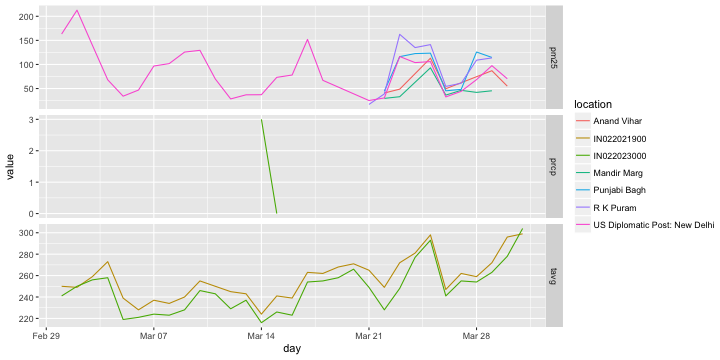
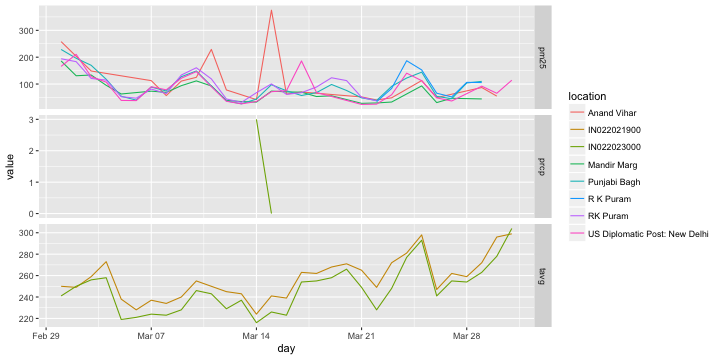
update rnoaa ropenaq vignette, bump dev version

diff --git a/inst/vign/rnoaa_ropenaq.md b/inst/vign/rnoaa_ropenaq.md
@@ -18,18 +18,10 @@ First, we need to know how many measures are available for Delhi for March 2016.
 ```r
 library("ropenaq")
 
-res <- aq_measurements(
-  city = "Delhi", parameter = "pm25",
-  date_from = "2016-03-01", date_to = "2016-03-31", limit = 1)
-countMeasures <- attr(res, "meta")$found
-measurementsDelhi <- NULL
-for (page in 1:ceiling(countMeasures/1000)){
-  measurementsDelhi <- rbind(
-    measurementsDelhi,
-    aq_measurements(city = "Delhi", parameter = "pm25",
-                    date_from = "2016-03-01", date_to = "2016-03-31",
-                    limit = 1000, page = page))
-}
+measurementsDelhi <- aq_measurements(city = "Delhi", parameter = "pm25",
+                                     date_from = "2016-03-01", 
+                                     date_to = "2016-03-31")
+
 save(measurementsDelhi, file = "data/measurementsDelhi.RData")
 ```
 
@@ -44,14 +36,14 @@ measurementsDelhi %>% head() %>% knitr::kable()
 
 
 
-|location                      |parameter | value|unit  |country |city  |dateUTC             |dateLocal           | latitude| longitude|cityURL |locationURL                     |
-|:-----------------------------|:---------|-----:|:-----|:-------|:-----|:-------------------|:-------------------|--------:|---------:|:-------|:-------------------------------|
-|US Diplomatic Post: New Delhi |pm25      |   127|µg/m³ |IN      |Delhi |2016-03-30 23:30:00 |2016-03-30 23:30:00 |  28.5981|  77.18907|Delhi   |US+Diplomatic+Post%3A+New+Delhi |
-|US Diplomatic Post: New Delhi |pm25      |   120|µg/m³ |IN      |Delhi |2016-03-30 22:30:00 |2016-03-30 22:30:00 |  28.5981|  77.18907|Delhi   |US+Diplomatic+Post%3A+New+Delhi |
-|US Diplomatic Post: New Delhi |pm25      |   111|µg/m³ |IN      |Delhi |2016-03-30 21:30:00 |2016-03-30 21:30:00 |  28.5981|  77.18907|Delhi   |US+Diplomatic+Post%3A+New+Delhi |
-|US Diplomatic Post: New Delhi |pm25      |   116|µg/m³ |IN      |Delhi |2016-03-30 20:30:00 |2016-03-30 20:30:00 |  28.5981|  77.18907|Delhi   |US+Diplomatic+Post%3A+New+Delhi |
-|US Diplomatic Post: New Delhi |pm25      |   111|µg/m³ |IN      |Delhi |2016-03-30 19:30:00 |2016-03-30 19:30:00 |  28.5981|  77.18907|Delhi   |US+Diplomatic+Post%3A+New+Delhi |
-|US Diplomatic Post: New Delhi |pm25      |   101|µg/m³ |IN      |Delhi |2016-03-30 18:30:00 |2016-03-30 18:30:00 |  28.5981|  77.18907|Delhi   |US+Diplomatic+Post%3A+New+Delhi |
+|location                      |parameter | value|unit  |country |city  | latitude| longitude|dateUTC             |dateLocal           |cityURL |locationURL                     |
+|:-----------------------------|:---------|-----:|:-----|:-------|:-----|--------:|---------:|:-------------------|:-------------------|:-------|:-------------------------------|
+|US Diplomatic Post: New Delhi |pm25      |   127|µg/m³ |IN      |Delhi |  28.5981|  77.18907|2016-03-30 23:30:00 |2016-03-31 05:00:00 |Delhi   |US+Diplomatic+Post%3A+New+Delhi |
+|US Diplomatic Post: New Delhi |pm25      |   120|µg/m³ |IN      |Delhi |  28.5981|  77.18907|2016-03-30 22:30:00 |2016-03-31 04:00:00 |Delhi   |US+Diplomatic+Post%3A+New+Delhi |
+|US Diplomatic Post: New Delhi |pm25      |   111|µg/m³ |IN      |Delhi |  28.5981|  77.18907|2016-03-30 21:30:00 |2016-03-31 03:00:00 |Delhi   |US+Diplomatic+Post%3A+New+Delhi |
+|US Diplomatic Post: New Delhi |pm25      |   116|µg/m³ |IN      |Delhi |  28.5981|  77.18907|2016-03-30 20:30:00 |2016-03-31 02:00:00 |Delhi   |US+Diplomatic+Post%3A+New+Delhi |
+|US Diplomatic Post: New Delhi |pm25      |   111|µg/m³ |IN      |Delhi |  28.5981|  77.18907|2016-03-30 19:30:00 |2016-03-31 01:00:00 |Delhi   |US+Diplomatic+Post%3A+New+Delhi |
+|US Diplomatic Post: New Delhi |pm25      |   101|µg/m³ |IN      |Delhi |  28.5981|  77.18907|2016-03-30 18:30:00 |2016-03-31 00:00:00 |Delhi   |US+Diplomatic+Post%3A+New+Delhi |
 
 ```r
 measurementsDelhi <- filter(measurementsDelhi, value > 0)
@@ -76,14 +68,14 @@ measurementsDelhi %>% head() %>% knitr::kable()
 
 
 
-|location    |day        |     value| longitude| latitude|
-|:-----------|:----------|---------:|---------:|--------:|
-|Anand Vihar |2016-03-22 |  40.71429|   77.3152|  28.6508|
-|Anand Vihar |2016-03-23 |  48.70000|   77.3152|  28.6508|
-|Anand Vihar |2016-03-25 | 113.00000|   77.3152|  28.6508|
-|Anand Vihar |2016-03-26 |  49.60000|   77.3152|  28.6508|
-|Anand Vihar |2016-03-29 |  87.00000|   77.3152|  28.6508|
-|Anand Vihar |2016-03-30 |  55.00000|   77.3152|  28.6508|
+|location    |day        |    value| longitude| latitude|
+|:-----------|:----------|--------:|---------:|--------:|
+|Anand Vihar |2016-03-01 | 258.0000|   77.3152|  28.6508|
+|Anand Vihar |2016-03-03 | 148.6000|   77.3152|  28.6508|
+|Anand Vihar |2016-03-07 | 112.6667|   77.3152|  28.6508|
+|Anand Vihar |2016-03-08 |  57.0000|   77.3152|  28.6508|
+|Anand Vihar |2016-03-09 | 111.0000|   77.3152|  28.6508|
+|Anand Vihar |2016-03-10 | 125.0000|   77.3152|  28.6508|
 
 Air quality and weather are correlated, so one could be interested in getting a time series of say temperature for the same location. The OpenAQ platform itself does not provide weather data but nearly all stations have geographical coordinates. Our goal here will be to use rnoaa to complement this table with precipitation and temperature.
 
@@ -168,7 +160,7 @@ all_monitors_clean %>% head() %>% knitr::kable()
 |IN022021900 |2016-03-02 |  249|   NA|  152|   NA|
 |IN022021900 |2016-03-03 |  259|   NA|  157|   NA|
 |IN022021900 |2016-03-04 |  273|   NA|  176|   NA|
-|IN022021900 |2016-03-05 |  239|  341|   NA|   NA|
+|IN022021900 |2016-03-05 |  238|  341|   NA|   NA|
 |IN022021900 |2016-03-06 |  228|  301|  155|   NA|
 
 Here we notice some values are not available. Therefore, we might need to go back to weather stations searching with, for instance, a larger radius. In this case let's say we're ok with the result of the search.
@@ -185,14 +177,14 @@ measurementsDelhi %>% head() %>% knitr::kable()
 
 
 
-|location    |day        |     value| longitude| latitude| tavg| tmax| tmin| prcp|
-|:-----------|:----------|---------:|---------:|--------:|----:|----:|----:|----:|
-|Anand Vihar |2016-03-22 |  40.71429|   77.3152|  28.6508|   NA|   NA|   NA|   NA|
-|Anand Vihar |2016-03-23 |  48.70000|   77.3152|  28.6508|   NA|   NA|   NA|   NA|
-|Anand Vihar |2016-03-25 | 113.00000|   77.3152|  28.6508|   NA|   NA|   NA|   NA|
-|Anand Vihar |2016-03-26 |  49.60000|   77.3152|  28.6508|   NA|   NA|   NA|   NA|
-|Anand Vihar |2016-03-29 |  87.00000|   77.3152|  28.6508|   NA|   NA|   NA|   NA|
-|Anand Vihar |2016-03-30 |  55.00000|   77.3152|  28.6508|   NA|   NA|   NA|   NA|
+|location    |day        |    value| longitude| latitude| tavg| tmax| tmin| prcp|
+|:-----------|:----------|--------:|---------:|--------:|----:|----:|----:|----:|
+|Anand Vihar |2016-03-01 | 258.0000|   77.3152|  28.6508|   NA|   NA|   NA|   NA|
+|Anand Vihar |2016-03-03 | 148.6000|   77.3152|  28.6508|   NA|   NA|   NA|   NA|
+|Anand Vihar |2016-03-07 | 112.6667|   77.3152|  28.6508|   NA|   NA|   NA|   NA|
+|Anand Vihar |2016-03-08 |  57.0000|   77.3152|  28.6508|   NA|   NA|   NA|   NA|
+|Anand Vihar |2016-03-09 | 111.0000|   77.3152|  28.6508|   NA|   NA|   NA|   NA|
+|Anand Vihar |2016-03-10 | 125.0000|   77.3152|  28.6508|   NA|   NA|   NA|   NA|
 
 
  Now some locations are air quality locations and have only missing values in the weather columns, and some locations are weather locations and have only missing values in the air quality columns.
